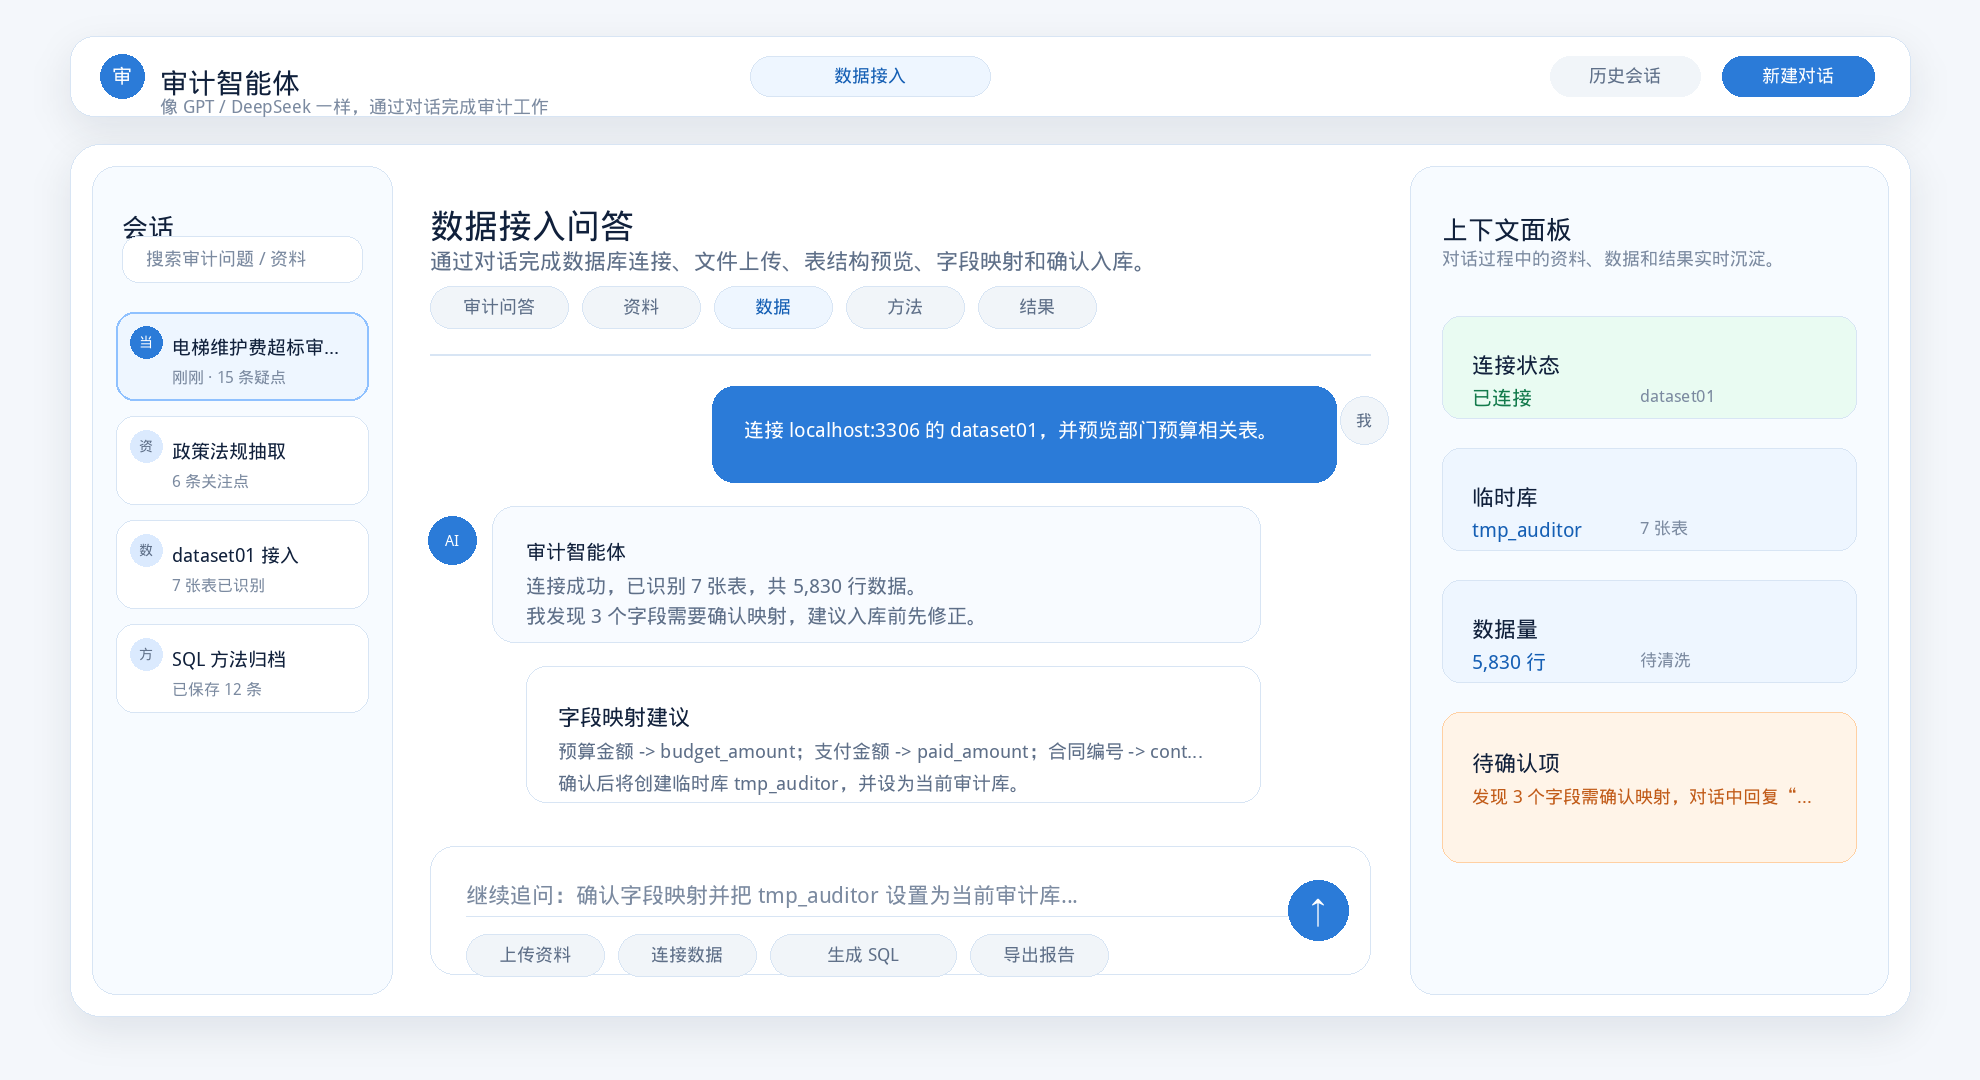
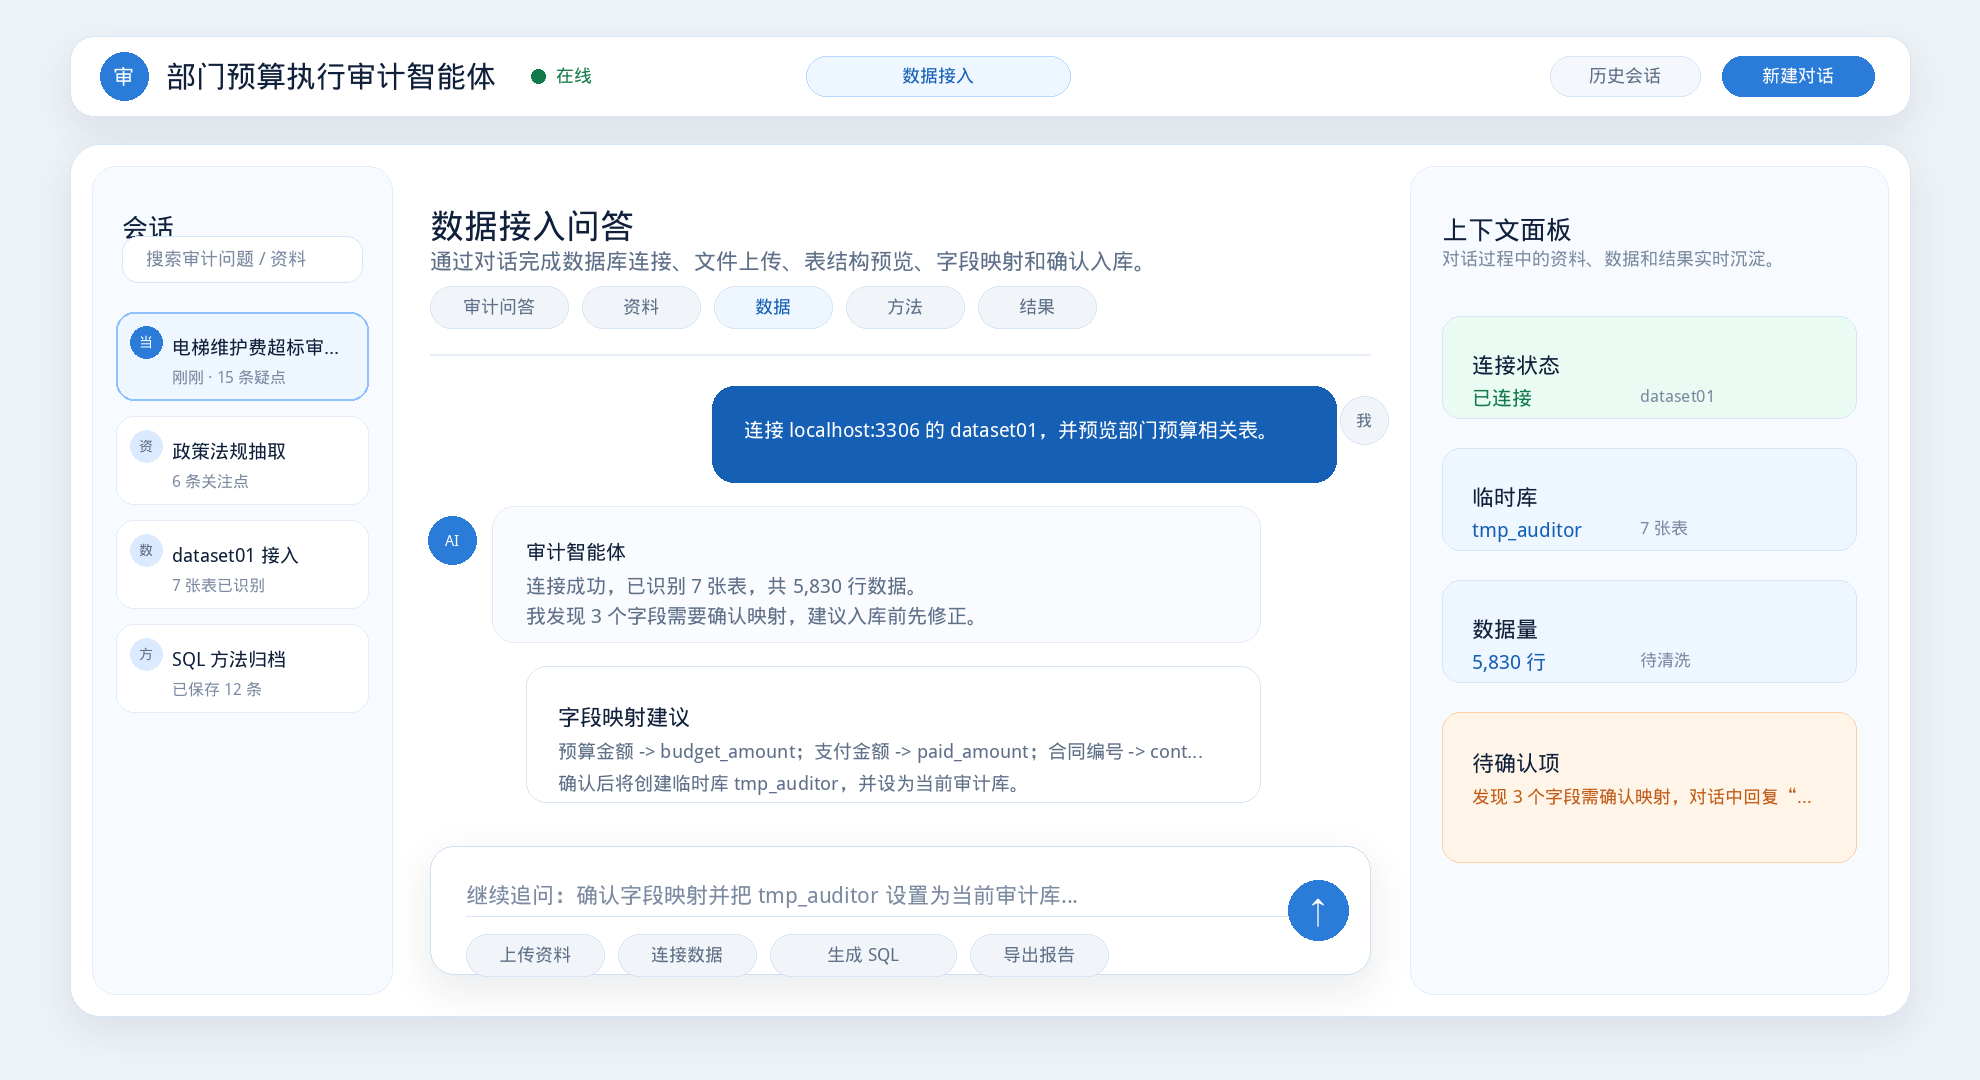
Polish chat workspace header and styling

Changed region(s): [[0.3389, 0.3361, 0.6778, 0.4583], [0.0616, 0.0611, 0.3081, 0.1222], [0.4005, 0.0611, 0.4929, 0.0917]]

diff --git a/scripts/generate_design_assets.py b/scripts/generate_design_assets.py
@@ -17,9 +17,9 @@ HEIGHT = 1080
 FONT_PATH = "/usr/share/fonts/truetype/wqy/wqy-microhei.ttc"
 
 COLORS = {
-    "bg": "#f4f7fb",
+    "bg": "#eef3f8",
     "surface": "#ffffff",
-    "panel": "#f8fbff",
+    "panel": "#f9fbfe",
     "line": "#d8e5f4",
     "blue": "#2b7bd8",
     "blue_dark": "#155fb4",
@@ -148,13 +148,14 @@ class Canvas:
 
 def header(c: Canvas, mode: str) -> None:
     c.rounded((70, 36, 1910, 116), 24, COLORS["surface"], COLORS["line"], shadow=True)
-    c.circle(122, 76, 22, COLORS["blue"])
-    c.text((122, 76), "审", 20, COLORS["white"], "mm")
-    c.text((160, 66), "审计智能体", 28, COLORS["text"])
-    c.text((160, 96), "像 GPT / DeepSeek 一样，通过对话完成审计工作", 18, COLORS["subtle"])
-    c.rounded((750, 56, 990, 96), 20, COLORS["blue_soft"], COLORS["line"])
-    c.text((870, 76), mode, 18, COLORS["blue_dark"], "mm")
-    c.rounded((1550, 56, 1700, 96), 20, COLORS["field"])
+    c.circle(124, 76, 24, COLORS["blue"])
+    c.text((124, 76), "审", 21, COLORS["white"], "mm")
+    c.text((166, 76), "部门预算执行审计智能体", 30, COLORS["text"], "lm")
+    c.circle(538, 76, 7, COLORS["green_text"])
+    c.text((556, 76), "在线", 18, COLORS["green_text"], "lm")
+    c.rounded((806, 56, 1070, 96), 20, COLORS["blue_soft"], "#b9d8ff")
+    c.text((938, 76), mode, 18, COLORS["blue_dark"], "mm")
+    c.rounded((1550, 56, 1700, 96), 20, "#f4f7fb", COLORS["line"])
     c.text((1625, 76), "历史会话", 18, COLORS["muted"], "mm")
     c.rounded((1722, 56, 1874, 96), 20, COLORS["blue"])
     c.text((1798, 76), "新建对话", 18, COLORS["white"], "mm")
@@ -177,7 +178,7 @@ def chat_shell(c: Canvas, title: str, subtitle: str, mode: str, active_tab: str 
     c.rounded((70, 144, 1910, 1016), 30, COLORS["surface"], COLORS["line"], shadow=True)
 
     # Left conversation list.
-    c.rounded((92, 166, 392, 994), 24, "#f7fbff", COLORS["line"])
+    c.rounded((92, 166, 392, 994), 24, "#f7fbff", "#e5eef8")
     c.text((122, 212), "会话", 26, COLORS["text"])
     c.rounded((122, 236, 362, 282), 16, COLORS["surface"], COLORS["line"])
     c.text((146, 259), "搜索审计问题 / 资料", 18, COLORS["subtle"], "lm")
@@ -190,7 +191,7 @@ def chat_shell(c: Canvas, title: str, subtitle: str, mode: str, active_tab: str 
     y = 312
     for tag, name, meta in conversations:
         selected = tag == "当前"
-        c.rounded((116, y, 368, y + 88), 18, COLORS["blue_soft"] if selected else COLORS["surface"], "#8fc1ff" if selected else COLORS["line"], 2 if selected else 1)
+        c.rounded((116, y, 368, y + 88), 18, COLORS["blue_soft"] if selected else COLORS["surface"], "#8fc1ff" if selected else "#e4edf7", 2 if selected else 1)
         c.circle(146, y + 30, 16, COLORS["blue"] if selected else "#dbeafe")
         c.text((146, y + 30), tag[:1], 14, COLORS["white"] if selected else COLORS["muted"], "mm")
         c.text((172, y + 24), name, 19, COLORS["text"], max_width=170)
@@ -203,10 +204,10 @@ def chat_shell(c: Canvas, title: str, subtitle: str, mode: str, active_tab: str 
     x = 430
     for tab in ["审计问答", "资料", "数据", "方法", "结果"]:
         x = chip(c, x, 286, tab, active=tab == active_tab)
-    c.line((430, 354, 1370, 354), COLORS["line"], 2)
+    c.line((430, 354, 1370, 354), "#e5edf7", 2)
 
     # Right context panel.
-    c.rounded((1410, 166, 1888, 994), 24, "#f7fbff", COLORS["line"])
+    c.rounded((1410, 166, 1888, 994), 24, "#f7fbff", "#e5eef8")
     c.text((1442, 214), "上下文面板", 26, COLORS["text"])
     c.text((1442, 248), "对话过程中的资料、数据和结果实时沉淀。", 18, COLORS["subtle"], max_width=390)
 
@@ -214,20 +215,20 @@ def chat_shell(c: Canvas, title: str, subtitle: str, mode: str, active_tab: str 
 def assistant_bubble(c: Canvas, y: int, lines: list[str], title: str = "审计智能体", h: int = 120) -> None:
     c.circle(452, y + 34, 24, COLORS["blue"])
     c.text((452, y + 34), "AI", 15, COLORS["white"], "mm")
-    c.rounded((492, y, 1260, y + h), 22, COLORS["panel"], COLORS["line"])
+    c.rounded((492, y, 1260, y + h), 22, COLORS["panel"], "#e2ebf5")
     c.text((526, y + 34), title, 20, COLORS["text"])
     c.multiline(526, y + 68, lines, 20, COLORS["muted"], 30)
 
 
 def user_bubble(c: Canvas, y: int, lines: list[str], h: int = 92) -> None:
-    c.rounded((712, y, 1336, y + h), 22, COLORS["blue"])
+    c.rounded((712, y, 1336, y + h), 22, COLORS["blue_dark"])
     c.multiline(744, y + 32, lines, 20, COLORS["white"], 30)
     c.circle(1364, y + 34, 24, COLORS["field"], COLORS["line"])
     c.text((1364, y + 34), "我", 16, COLORS["muted"], "mm")
 
 
 def input_box(c: Canvas, placeholder: str = "输入审计问题，或拖拽政策、Excel、CSV 到这里...") -> None:
-    c.rounded((430, 846, 1370, 974), 24, COLORS["surface"], COLORS["line"])
+    c.rounded((430, 846, 1370, 974), 24, COLORS["surface"], "#cfe0f2", shadow=True)
     c.text((466, 882), placeholder, 22, COLORS["subtle"])
     c.line((466, 916, 1334, 916), COLORS["line"], 1)
     x = 466
@@ -250,7 +251,7 @@ def entry() -> None:
     assistant_bubble(
         c,
         392,
-        ["你可以像使用 GPT / DeepSeek 一样直接提问。", "例如：帮我检查部门预算执行中电梯维护费是否超标。"],
+        ["你可以直接输入审计目标，也可以上传资料或连接数据。", "例如：帮我检查部门预算执行中电梯维护费是否超标。"],
         h=132,
     )
     user_bubble(c, 548, ["帮我做一个部门预算执行审计，先从资料识别开始。"])

diff --git a/docs/guided-access-design.md b/docs/guided-access-design.md
@@ -1,6 +1,6 @@
 # 审计智能体问答式对话窗口设计稿
 
-本方案将系统从“菜单/步骤驱动”调整为类似 GPT、DeepSeek 的问答式工作台。用户不再先选择模块，而是在统一输入框中直接描述审计目标、上传资料、连接数据或要求生成 SQL；系统在对话中识别意图、沉淀上下文，并把资料、数据、方法和结果实时展示在右侧面板。
+本方案将系统从“菜单/步骤驱动”调整为问答式审计工作台。用户不再先选择模块，而是在统一输入框中直接描述审计目标、上传资料、连接数据或要求生成 SQL；系统在对话中识别意图、沉淀上下文，并把资料、数据、方法和结果实时展示在右侧面板。
 
 ## 设计目标
 
@@ -30,7 +30,7 @@
 
 ### 1. 问答式审计首页
 
-用户进入系统后看到一个类似 GPT/DeepSeek 的对话工作台：
+用户进入系统后看到一个以对话为核心的审计工作台：
 
 - 左侧显示历史会话，例如“电梯维护费超标审计”“政策法规抽取”“dataset01 接入”。
 - 中间由智能体发起引导语，用户可以直接输入审计目标。

diff --git a/README.md b/README.md
@@ -2,7 +2,7 @@
 
 ## 审计智能体问答式对话窗口设计
 
-本仓库当前交付一套类似 GPT、DeepSeek 的“问答式审计工作台”设计稿，图片尺寸为 `1980x1080`。
+本仓库当前交付一套“问答式审计工作台”设计稿，图片尺寸为 `1980x1080`。
 
 - [设计说明](docs/guided-access-design.md)
 - [问答式审计首页](designs/00-guided-entry.svg)
